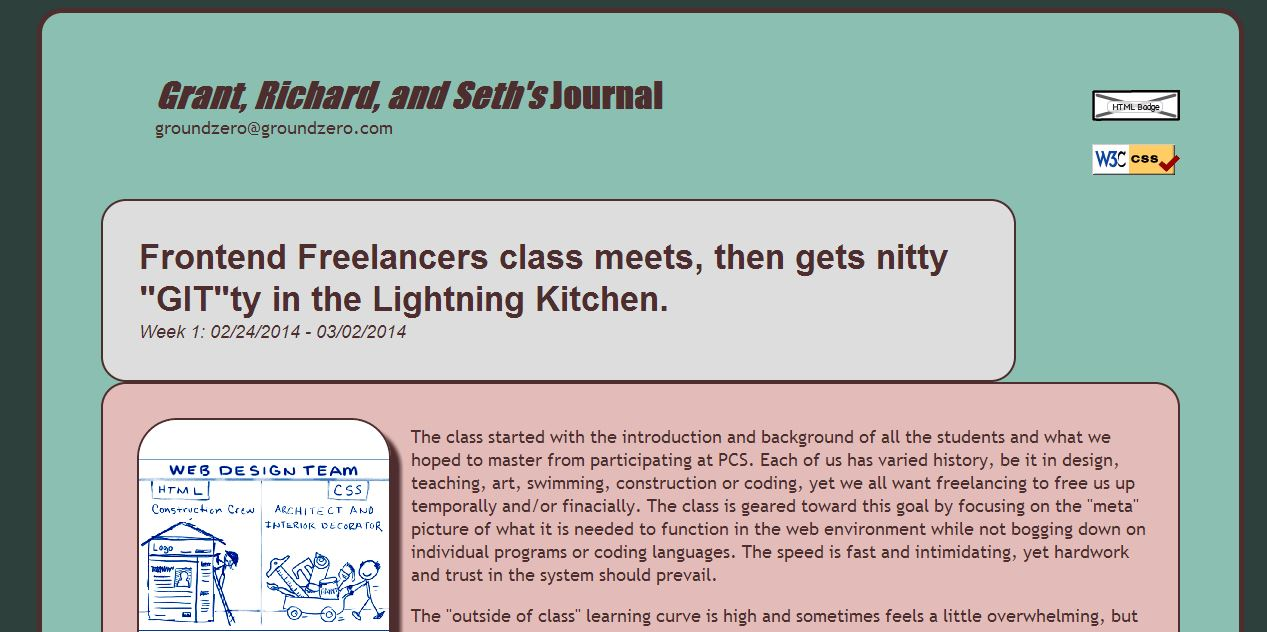
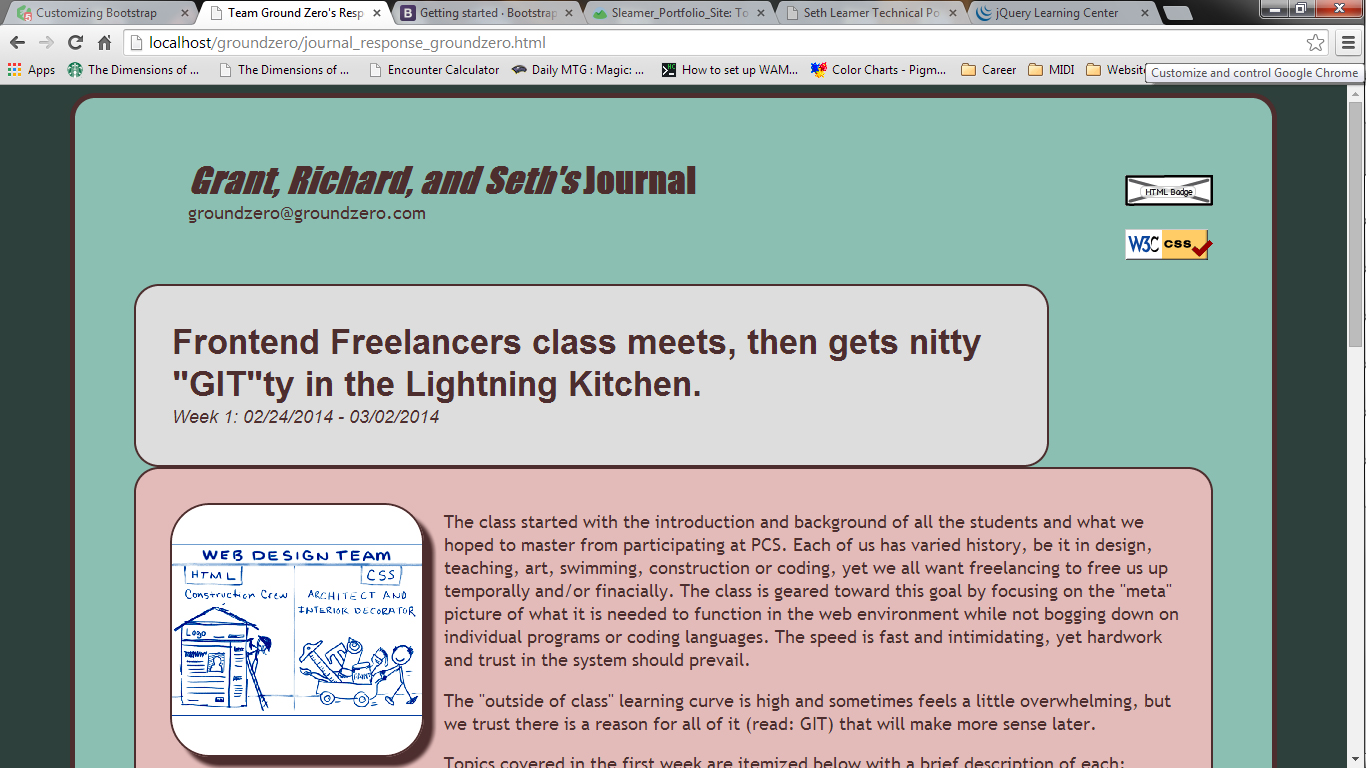
Added boostrap grid layout and images

diff --git a/index.html b/index.html
@@ -8,7 +8,7 @@
     <meta name="author" content="">
     <link rel="shortcut icon" href="../../assets/ico/favicon.ico">
 
-    <title>Fixed Top Navbar Example for Bootstrap</title>
+    <title>Seth Leamer Technical Portfolio</title>
 
     <!-- Bootstrap core CSS -->
     <link href="css/bootstrap.min.css" rel="stylesheet">
@@ -28,7 +28,7 @@
     <![endif]-->
   </head>
 
-  <body>
+  <body data-spy="scroll" data-target=".navbar-example">
 
     <!-- Fixed navbar -->
     <div class="navbar navbar-default navbar-fixed-top" role="navigation">
@@ -40,10 +40,11 @@
             <span class="icon-bar"></span>
             <span class="icon-bar"></span>
           </button>
-          <a class="navbar-brand" href="#">Project name</a>
+          <a class="navbar-brand" href="#">SLeamer: Technical Portfolio</a>
         </div>
-        <div class="navbar-collapse collapse">
-          <ul class="nav navbar-nav">
+        <div class="navbar-collapse collapse"> 
+<!-- SAL: Taking out leftside navigation  
+        <ul class="nav navbar-nav">
             <li class="active"><a href="#">Home</a></li>
             <li><a href="#about">About</a></li>
             <li><a href="#contact">Contact</a></li>
@@ -60,10 +61,13 @@
               </ul>
             </li>
           </ul>
+-->
+
           <ul class="nav navbar-nav navbar-right">
-            <li><a href="../navbar/">Default</a></li>
-            <li><a href="../navbar-static-top/">Static top</a></li>
-            <li class="active"><a href="./">Fixed top</a></li>
+            <li><a href="#wordpress">WordPress</a></li>
+            <li><a href="#modx">MODx</a></li>
+            <li><a href="#static">Static</a></li>
+            <li><a href="#contact">Contact Me</a></li>
           </ul>
         </div><!--/.nav-collapse -->
       </div>
@@ -71,15 +75,76 @@
 
     <div class="container">
 
-      <!-- Main component for a primary marketing message or call to action -->
-      <div class="jumbotron">
-        <h1>Navbar example</h1>
-        <p>This example is a quick exercise to illustrate how the default, static and fixed to top navbar work. It includes the responsive CSS and HTML, so it also adapts to your viewport and device.</p>
-        <p>To see the difference between static and fixed top navbars, just scroll.</p>
-        <p>
-          <a class="btn btn-lg btn-primary" href="../../components/#navbar" role="button">View navbar docs &raquo;</a>
-        </p>
+<!-- WordPress Site -->
+    <div class="jumbotron">
+      <div class="row">
+        <div class="col-md-12 ">
+            <h1 id="wordpress">WordPress</h1>
+        </div>
+        <div class="col-md-6 ">
+            <img src="images/wordpress.jpg" alt="" class="img-responsive">
+        </div>
+        <div class="col-md-4 ">
+            <p>This example is a quick exercise to illustrate how the default, static and fixed to top navbar work. It includes the responsive CSS and HTML, so it also adapts to your viewport and device.</p>
+            <p>To see the difference between static and fixed top navbars, just scroll.</p>
+        </div>
       </div>
+    </div>
+<!-- Modx Site-->
+    <div class="jumbotron">
+      <div class="row">
+        <div class="col-md-12 ">
+            <h1 id="modx">MODx</h1>
+        </div>
+        <div class="col-md-6 ">
+            <img src="images/modx.jpg" alt="" class="img-responsive">
+        </div>
+        <div class="col-md-4">
+            <p>This example is a quick exercise to illustrate how the default, static and fixed to top navbar work. It includes the responsive CSS and HTML, so it also adapts to your viewport and device.</p>
+            <p>To see the difference between static and fixed top navbars, just scroll.</p>
+            <p>
+              <a class="btn btn-lg btn-primary" href="../../components/#navbar" role="button">View navbar docs &raquo;</a>
+            </p>
+        </div>
+      </div>
+    </div>
+<!-- Static-->
+    <div class="jumbotron">
+      <div class="row">
+        <div class="col-md-12 ">
+            <h1 class="static">Static</h1>
+        </div>
+        <div class="col-md-6 ">
+            <img src="images/static.jpg" alt="" class="img-responsive">
+        </div>
+        <div class="col-md-6 ">
+            <p>This example is a quick exercise to illustrate how the default, static and fixed to top navbar work. It includes the responsive CSS and HTML, so it also adapts to your viewport and device.</p>
+            <p>To see the difference between static and fixed top navbars, just scroll.</p>
+            <p>
+              <a class="btn btn-lg btn-primary" href="../../components/#navbar" role="button">View navbar docs &raquo;</a>
+            </p>
+        </div>
+      </div>
+    </div>
+
+<!-- Contact-->
+    <div class="jumbotron">
+      <div class="row">
+        <div class="col-md-12 ">
+            <h1 class="contact">Contact Me</h1>
+        </div>
+        <div class="col-md-6 ">
+            <p>LINKEDIN PROFILE needs to be included here https://www.linkedin.com/pub/seth-leamer/35/223/65</p>
+        </div>
+        <div class="col-md-6 ">
+            <p>To see the difference between static and fixed top navbars, just scroll.</p>
+            <p>
+              <a class="btn btn-lg btn-primary" href="../../components/#navbar" role="button">View navbar docs &raquo;</a>
+            </p>
+        </div>
+      </div>
+    </div>
+
 
     </div> <!-- /container -->
 
@@ -88,6 +153,7 @@
     ================================================== -->
     <!-- Placed at the end of the document so the pages load faster -->
     <script src="https://ajax.googleapis.com/ajax/libs/jquery/1.11.0/jquery.min.js"></script>
-    <script src="../../dist/js/bootstrap.min.js"></script>
+    <script src="js/bootstrap.m
+    <div class="col-md-6 ">in.js"></script>
   </body>
 </html>
